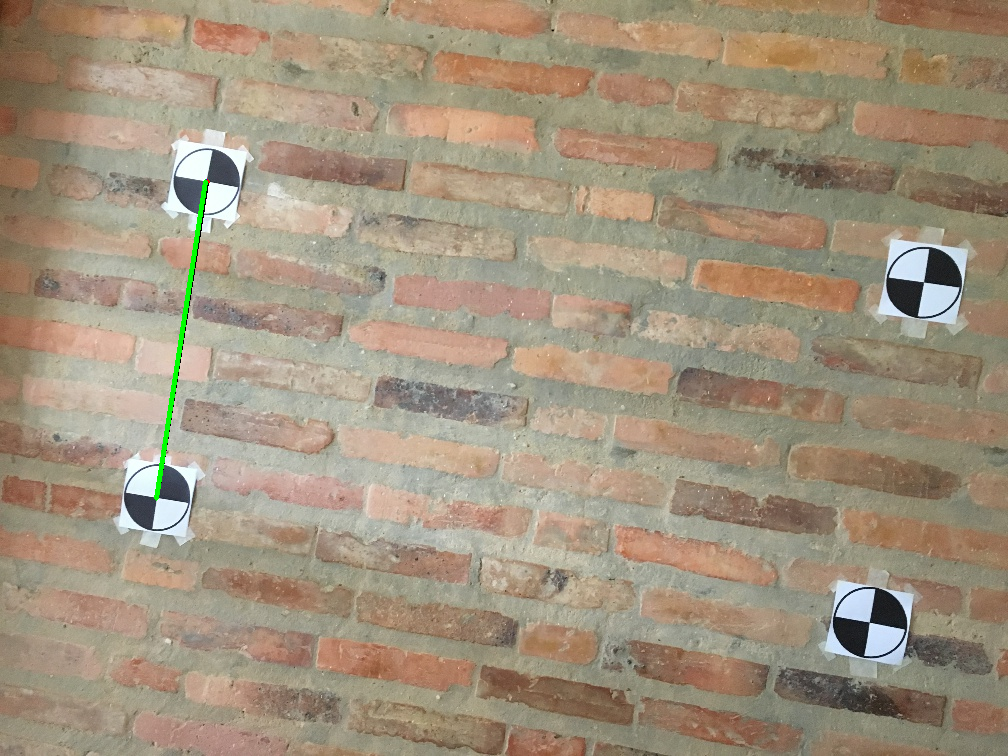
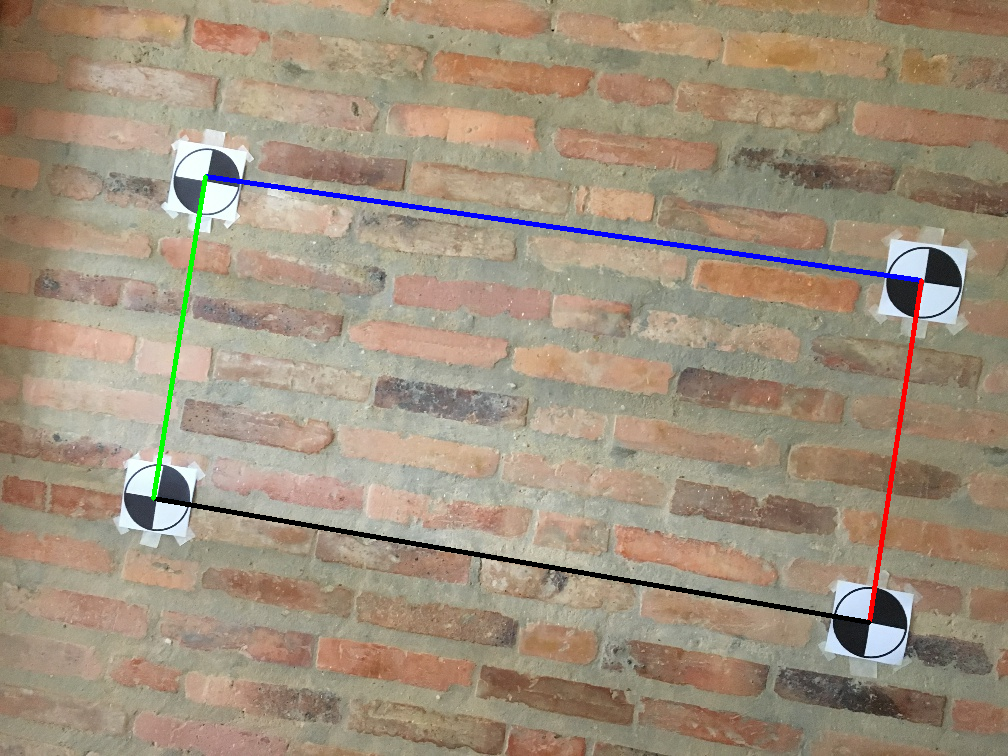
ps3 1,2. Edge detection working with harris.

diff --git a/code/PS3/ps03/ps3.py b/code/PS3/ps03/ps3.py
@@ -44,47 +44,57 @@ def _template_match(image, template, threshold=0.99, rotation_angle=0):
     Returns list of tuples of template match coordinates.
     Coordinate are center-point of template match.
     """
-    global_max = 0
-    global_max_val = 0
+    # global_max = 0
+    # global_max_val = 0
     all_values = {}
 
-    for theta in range(0, 360, 5):
+    for theta in range(0, 360):
+    # for theta in range(172, 180):
 
-        template_rot = scipy.ndimage.rotate(template, theta)
-        threshold = 0.95
+        template_rotation = scipy.ndimage.rotate(template, theta)
+        threshold = 0.5
 
-        results = cv2.matchTemplate(image, template_rot, method=cv2.TM_CCORR_NORMED)
+        results = cv2.matchTemplate(image, template_rotation, method=cv2.TM_CCORR_NORMED)
         markers = []
-        while len(markers) < 16 and threshold > 0.70:
-            markers = []
-            markers_ = np.where(results >= threshold)
+        # while len(markers) < 16 and threshold > 0.70:
+        markers = []
+        markers_ = np.where(results >= threshold)
 
-            th, tw = template.shape
+        markers_ = zip(*markers_[::-1])
 
-            for upper_left_pt in zip(*markers_[::-1]):
-                x = upper_left_pt[0] + int(tw / 2)
-                y = upper_left_pt[1] + int(th / 2)
-                markers.append((x, y))
+        all_values[theta] = _cluster_markers(markers)
 
-            threshold = threshold - 0.01
+        th, tw = template.shape
 
-        if results.max() > global_max:
-            print("New global Max", results.max(), "Theta: ", theta)
-            global_max_val = theta
-            global_max = results.max()
-            all_values[theta] = markers
+        # for upper_left_pt in zip(*markers_[::-1]):
+        #     x = upper_left_pt[0] + int(tw / 2)
+        #     y = upper_left_pt[1] + int(th / 2)
+        #     markers.append((x, y))
 
-    markers = all_values[global_max_val]
+        threshold = threshold - 0.01
+
+        # if results.max() > global_max:
+        #     print("New global Max", results.max(), "Theta: ", theta)
+        #     global_max_val = theta
+        #     global_max = results.max()
+        #     all_values[theta] = markers
+
+    # markers = all_values[global_max_val]
+    # TODO cluster and select based on compactness. I'm going to sleep now/.
 
     return markers
 
 
 def _harris_corners(image, block_size=3, k_size=5, k=0.04, harris_threshold=0.99):
-    # dst = cv2.cornerHarris(image, block_size, k_size, k) # (image, 3, 5, k)
-    print("block_size:{}; k_size:{}; k:{}".format(block_size, k_size, k))
-    dst = cv2.cornerHarris(image, 3, 5, k) # (image, 3, 5, k)
+    harris_image = np.float32(image)
 
-    results = np.where(dst >= harris_threshold)
+    # dst = cv2.cornerHarris(harris_image, 2, 3, 0.04)
+    dst = cv2.cornerHarris(harris_image, 5, 7, 0.04)
+    # print(dst.shape)
+
+    # threshold = 0.95
+    results = np.where(dst > 0.3 * dst.max())
+    # print("results: ", results)
 
     markers = []
     for marker in zip(*results[::-1]):
@@ -92,13 +102,7 @@ def _harris_corners(image, block_size=3, k_size=5, k=0.04, harris_threshold=0.99
         y = marker[1]
         markers.append((x, y))
 
-    # markers = np.array(markers, dtype='float32')
-
-    # criteria = (cv2.TERM_CRITERIA_EPS + cv2.TERM_CRITERIA_MAX_ITER, 10, 1.0)
-    #
-    # ret, label, markers_ = cv2.kmeans(markers, 4, None, criteria, 10, cv2.KMEANS_RANDOM_CENTERS)
-
-    # markers = [tuple(x) for x in markers.astype(np.uint8).tolist()]
+    # print("length: ", len(markers))
 
     return markers
 
@@ -134,13 +138,25 @@ def _color_filter_hsv(img_in, hsv, tolerance):
 
 
 def _cluster_markers(markers):
-    _markers = np.array(markers, dtype='float32')
+    # _markers = np.array(markers, dtype='float32')
+    #
+    # criteria = (cv2.TERM_CRITERIA_EPS + cv2.TERM_CRITERIA_MAX_ITER, 10, 1.0)
+    #
+    # compactness, label, markers_ = cv2.kmeans(_markers, 4, None, criteria, 10, cv2.KMEANS_RANDOM_CENTERS)
+    #
+    # markers_clustered = [tuple(x) for x in markers_.astype(np.uint16).tolist()]
+    #
+    # return markers_clustered, compactness
+
+    markers_float32 = np.array(markers, dtype='float32')
 
     criteria = (cv2.TERM_CRITERIA_EPS + cv2.TERM_CRITERIA_MAX_ITER, 10, 1.0)
 
-    ret, label, markers_ = cv2.kmeans(_markers, 4, None, criteria, 10, cv2.KMEANS_RANDOM_CENTERS)
+    flags = cv2.KMEANS_RANDOM_CENTERS
 
-    markers_clustered = [tuple(x) for x in markers_.astype(np.uint16).tolist()]
+    compactness, labels, centers = cv2.kmeans(markers_float32, 4, None, criteria, 10, flags)
+
+    markers_clustered = [tuple(x) for x in centers.astype(np.uint16).tolist()]
 
     return markers_clustered
 
@@ -231,44 +247,14 @@ def find_markers(image, template=None):
         return new_image.astype(dtype=np.uint8)
 
     def compute_values(template_threshold, block_size, k, harris_threshold, rotation_angle):
-        # Denoise while preserving edges
-        denoised_image = _denoise_img(image)
-        # gray_template = cv2.cvtColor(template, cv2.COLOR_BGR2GRAY)
-        # canny_template = cv2.Canny(template, 50, 200)
-        # denoised_template = _denoise_img(gray_template)
-
-        # Gray-scale
         gray_image = cv2.cvtColor(image, cv2.COLOR_BGR2GRAY)
-        cv2.imshow('gray_image', gray_image)
 
-
-        # Average Gray
-        # img_avg = np.average(image, axis=2).astype(np.uint8)
-        # threshed = cv2.adaptiveThreshold(
-        #     img_avg, 255, cv2.ADAPTIVE_THRESH_MEAN_C, cv2.THRESH_BINARY, 3, 0
-        # )
-
-        # cv2.imshow('avg_image', threshed)
-        # cv2.waitKey(0)
-
-        # Find markers
-        markers_positions = _template_match(
-            gray_image, template[:, :, 1], threshold=template_threshold, rotation_angle=rotation_angle
+        markers_positions = _harris_corners(
+            gray_image, block_size, k_size= 3, k=k, harris_threshold=harris_threshold
         )
-        # markers_positions = _harris_corners(
-        #     gray_image, block_size, k_size= 3, k=k, harris_threshold=harris_threshold
-        # )
-        match_count = len(markers_positions)
 
-
-        # Cluster and sort
-        try:
-            markers_positions = _cluster_markers(markers_positions)
-            markers_positions = _order_markers(markers_positions)
-        except:
-            print("*"*80)
-            print(markers_positions, match_count)
-            print("*" * 80)
+        markers_positions = _cluster_markers(markers_positions)
+        markers_positions = _order_markers(markers_positions)
 
         return markers_positions
 
